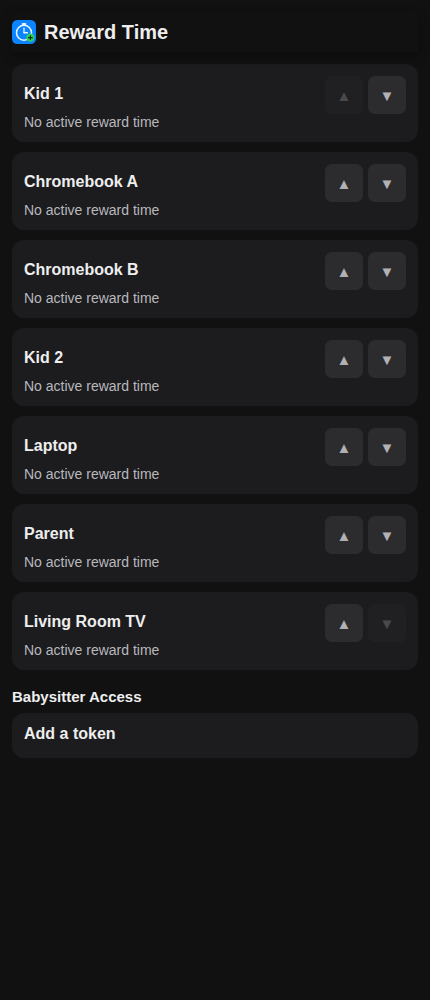
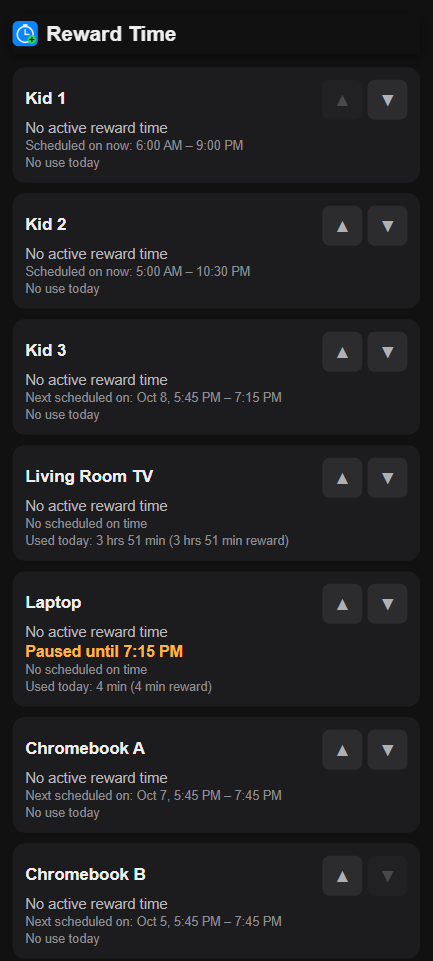
README: screenshots up top, jump-to links, docs for recent features
- Jump-to links under the intro, and a screenshot gallery right after
  it (previously ~200 lines down)
- Six new screenshots taken in a phone-sized headless browser with all
  names, emails and links replaced by placeholders: card list, expanded
  cards with pause/Resume/Revoke, schedule editor, time editor with
  Apply to, babysitter and admin access, activity
- "What you get" and "Using it" rewritten for reward time, pausing,
  schedule editing, babysitter scope, admin links and alerts, activity
- New "Updating an install" section (deploy.sh); install step for email
  alerts; architecture, troubleshooting, uninstall and security notes
  updated for pauses, schedules, the monitor and per-person links

Claude-Session: https://claude.ai/code/session_01UtyANf5UakSVDevyFZaxd4

diff --git a/README.md b/README.md
@@ -10,15 +10,45 @@ in the future.
 
 # Safe Access Reward Time
 
-A small, self-hosted web app for adding "reward time" to a kid's device on a
-Synology router running **Safe Access** (SRM's parental-control package) —
-without the friction of the official DS Router app. Built for phones: big
-buttons, a quick +5/+15/+30/+60 minute grid per profile, a custom date/time
-picker, and time-limited "babysitter" access links you can text to someone
-else so they can manage screen time themselves for a few hours or a few days.
+A small, self-hosted web app for managing kids' screen time on a Synology router running
+**Safe Access** (SRM's parental-control package) - without the friction of the official DS Router
+app. Built for phones: one card per kid or device with quick **+5/+15/+30/+60 minute** reward time,
+**pause internet** buttons, a **weekly schedule editor**, today's usage, and time-limited
+**babysitter links** you can text to someone else. It shows **who did what** (each parent and
+babysitter has their own link), and emails you if something breaks, plus an optional weekly
+summary.
 
-It runs entirely on the router itself. No cloud service, no external
-dependencies beyond what SRM already ships with.
+It runs entirely on the router itself. No cloud service, no external dependencies beyond what SRM
+already ships with.
+
+**Jump to:** [Screenshots](#screenshots) · [What you get](#what-you-get) ·
+[Prerequisites](#prerequisites) · [Router setup](#setting-up-your-router-first) ·
+[Installing](#installing) · [Updating](#updating-an-install) · [Using it](#using-it) ·
+[Architecture](#architecture) · [Troubleshooting](#troubleshooting) ·
+[Uninstalling](#uninstalling) · [Security notes](#security-notes) · [Tests](#running-the-tests)
+
+## Screenshots
+
+<table>
+<tr>
+<td align="center" width="50%"><img src="docs/screenshots/01-main-list.png" width="260" alt="Main list"><br>
+<sub>One card per kid or device: reward time, today's schedule window and usage</sub></td>
+<td align="center" width="50%"><img src="docs/screenshots/02-expanded-cards.png" width="260" alt="Expanded cards"><br>
+<sub>Quick reward buttons, pause (tap again to extend), Resume and Revoke</sub></td>
+</tr>
+<tr>
+<td align="center"><img src="docs/screenshots/03-schedule-editor.png" width="260" alt="Schedule editor"><br>
+<sub>Weekly schedule editor: the times internet is allowed</sub></td>
+<td align="center"><img src="docs/screenshots/04-time-editor.png" width="260" alt="Time editor"><br>
+<sub>Editing a time, and applying it to other days</sub></td>
+</tr>
+<tr>
+<td align="center"><img src="docs/screenshots/05-babysitter-and-admin.png" width="260" alt="Babysitter and admin access"><br>
+<sub>Babysitter links (optionally for some devices only) and per-person admin links</sub></td>
+<td align="center"><img src="docs/screenshots/06-activity.png" width="260" alt="Activity"><br>
+<sub>Who did what, with weekly and monthly totals</sub></td>
+</tr>
+</table>
 
 ## Why this exists, and why it's built the way it is
 
@@ -33,18 +63,25 @@ this app avoids it.
 
 ## What you get
 
-- A mobile-first page per restricted profile/device with quick-add buttons,
-  a revoke button, and a full custom date/time picker (with your own
-  built-in calendar and hour/minute/AM-PM columns - no fiddly native input).
-- Drag-free reordering (tap arrows) and collapsible cards, remembered
-  per-browser.
-- **Babysitter/guest access**: generate a separate link, good for anywhere
-  from a few hours up to a year, that lets whoever you send it to grant or
-  revoke reward time themselves - without your admin token, and without
-  them being able to create more links of their own. Revoke it early anytime.
-- Runs as a resilient background service: a watchdog checks real health
-  (not just "is the process alive") every minute and restarts it if needed,
-  and it survives router reboots.
+- **A card per restricted profile or device** showing active reward time, today's schedule window
+  ("Scheduled on now: 6:00 AM - 9:00 PM", or the next one) and today's usage, including how much was
+  reward time. Cards collapse and reorder with tap arrows, remembered per browser.
+- **Reward time:** +5m/+15m/+30m/+60m buttons that stack, and **Custom** for an exact date and time.
+- **Pause internet:** **+30m** pauses (tap again to extend), **Until...** pauses to a set time.
+  **Resume** ends a pause, and **Revoke** puts the profile back on its normal schedule (removes
+  reward time and any pause).
+- **Schedule editing:** a weekly editor of allowed times, saved to Safe Access live (it shows in the
+  DS Router app too). Copy a time to other days, and undo any change from the activity log.
+- **Per-person links:** each parent gets their own admin link (create or revoke more from the
+  page), and **babysitter links** last anywhere from a few hours to a year, optionally limited to
+  some devices. Babysitters can grant, revoke and pause, but can't create links or see the admin
+  sections.
+- **Activity log:** who did what and when, with per-person weekly and monthly totals.
+- **Email alerts and a weekly summary:** a health monitor emails each admin who set an alert address
+  when something breaks (and when it recovers) or an action fails, and optionally a Sunday summary
+  of the week's usage.
+- **Runs unattended:** watchdogs check real health every minute and restart things, and it survives
+  router reboots.
 
 ## Prerequisites
 
@@ -177,6 +214,12 @@ brand/model, so check that router's own documentation.
 5. Open the URL the installer printed, bookmark it or add it to your
    phone's home screen.
 
+6. Optional, for email alerts and the weekly summary: create a Gmail *app password*
+   (Google account -> Security -> 2-Step Verification -> App passwords) and run
+   `./set-alert-email.sh` from the app directory. It stores the sender and sends a test. Then
+   set an alert email on your admin link (Admin Access on the page) and tick
+   "Weekly usage email" if you want the Sunday summary.
+
 Since it's a self-signed certificate by default, your browser will warn you
 the first time. You can just tap through it, or - to make the warning go
 away permanently - AirDrop/email yourself `cert/fullchain.pem`, install it
@@ -210,56 +253,65 @@ expects (a leaf-only `server.crt`/`server.key` pair at the standard SRM
 path, chain completed via the local admin HTTPS port) - if it fails, you're
 no worse off than the self-signed default.
 
+## Updating an install
+
+From a checkout of this repo on your own computer, with SSH access to the router as the app user:
+
+```
+./deploy.sh <ssh-host> [/volume1/reward-time]
+```
+
+It copies the app's own files, compile-checks them with the router's Python, backs up the current
+ones into `backups/<timestamp>/` (keeping the newest 5), restarts the server and checks it answers.
+If it doesn't, it prints how to roll back. Changes to the root-owned parts (`root/`) need root, so
+copy those into `<your-install-dir>-root` yourself as in the installer's steps.
+
 ## Using it
 
-Open the app link. Each restricted Safe Access profile (a kid's account, or
-a specific device) gets its own collapsed card, showing whether it
-currently has active reward time:
+Open your link. Each restricted Safe Access profile (a kid's account, or a specific device) has a
+card; tap its header to expand it (see the [screenshots](#screenshots)).
 
-![Main list, collapsed](docs/screenshots/01-main-list.png)
+### Reward time
 
-Tap a card's header to expand it:
+The **+5m ... +60m** buttons stack: tap **+15m** then **+30m** and it ends up 45 minutes, with no
+need to wait for the first to finish. **Custom** opens a date/time picker sized to fit the screen;
+it closes as soon as you tap **Set** and applies in the background, so you can move on to the next
+device.
 
-![Expanded card showing the quick-add buttons](docs/screenshots/02-expanded-card.png)
+### Pausing internet
 
-This reveals four quick-add buttons - tap one for an instant grant. They
-stack: tap **+15m** then **+30m** right after and the device ends up with
-45 minutes total, with no need to wait for the first tap to finish before
-making the next one. There's also **Custom** for an exact date/time, and
-**Revoke** to end active reward time immediately. Use the small up/down
-arrows to reorder cards, and tap a header again to collapse it - both are
-remembered per-browser, not shared across devices.
+**+30m** pauses the profile for 30 minutes; tapping it again adds another 30 to the end.
+**Until...** pauses to a chosen time. While paused, the card shows "Paused until ..." and the last
+row offers **Resume** (end the pause, keep any reward time) and **Revoke** (end both and go back to
+the normal schedule). Safe Access itself only pauses indefinitely, so timed pauses are ended by the
+app's background daemon.
 
-### Custom date & time
+### Editing schedules
 
-Tapping **Custom** opens a picker sized to fit your screen without
-scrolling: pick a date from the calendar (it opens on today), then an
-hour, minute, and AM/PM, and tap **Set**.
+**Edit schedule** (admins only) shows each day's allowed times. Tap a time to change its start or
+end in the same picker; **Apply to...** adds it to other days too (merging with times already
+there). **+ Add** adds a time, and **Copy to all days** makes every day match one. Nothing changes
+until **Save**. A schedule with no allowed time at all asks for confirmation. Every change is
+recorded with the previous schedule, and its entry in Activity has an **Undo** button.
 
-![Custom date and time picker](docs/screenshots/03-custom-picker.png)
+### Babysitter access
 
-The picker closes immediately after you tap **Set** - it applies in the
-background, so you can move straight on to another device rather than
-waiting for it to finish.
+Name who a link is for and pick how long it lasts (a few hours up to a year). By default it covers
+all devices; untick **All devices** to pick some. Creating it copies the link to your clipboard. A
+badge on the heading shows how many are active; open a row to see its link again or revoke it.
 
-### Babysitter / guest access
+### Admin access and alerts
 
-At the bottom, the "Add a token" card lets you name who a temporary access
-link is for and choose how long it should last - a preset number of hours
-or days, or an exact date/time up to a year out:
+Every admin link has a name, which is what Activity shows. Open a row to copy its link, set an
+alert email, tick **Weekly usage email (Sundays)**, or revoke it. You can't revoke your own link,
+or the last one. A warning banner appears at the top of the page if the health monitor sees a
+problem.
 
-![Add a token card](docs/screenshots/04-add-token.png)
+### Activity
 
-Creating one copies the link straight to your clipboard - ready to text or
-message to whoever needs it - and shows it in the list above. It works
-like your own link, except it can only grant or revoke reward time; it
-can't create more links or see this list. Tap an entry in the list to
-reveal its full link again later (handy if you need to resend it) - the
-text field is selectable so you can copy it manually:
-
-![An expanded token entry showing its selectable link](docs/screenshots/05-token-expanded.png)
-
-Revoke a token early right from its row, or just let it expire on its own.
+A per-person table of the last 7 and 30 days (actions and minutes granted, revokes, pauses), and the
+recent actions, filterable by person. Failed actions show in red. The Babysitter Access, Admin
+Access and Activity sections fold, remembered per browser.
 
 ## Architecture
 
@@ -289,10 +341,23 @@ split exists specifically because a direct database write does *not*
 reliably trigger live enforcement - confirmed by testing both paths against
 a real device.
 
-Everything else (watchdogs, boot scripts, log rotation, TLS handshake
-timeouts to survive internet port-scanning) exists because this app is
-reachable from the open internet by design, and needs to keep running
-unattended.
+Pausing (`SYNO.SafeAccess.AccessControl.ConfigGroup`) and schedule changes
+(`SYNO.SafeAccess.AccessControl.Profile.Schedule.Blocktime`) go the same way.
+Safe Access only pauses indefinitely, so `apply_daemon.py` also keeps timed
+pauses in `pauses.json` and ends them when due.
+
+Around that:
+
+- `tokens.db` (app directory) holds the admin and babysitter links and the
+  activity log.
+- `monitor.py` runs every minute as the app user and checks the web app, the
+  daemons' heartbeats and the certificate sync. It emails problems,
+  recoveries and failed actions, and sends the weekly summary. Its state also
+  drives the page's warning banner.
+- Everything else (watchdogs, boot scripts, log rotation, TLS handshake
+  timeouts to survive internet port-scanning) exists because this app is
+  reachable from the open internet by design, and needs to keep running
+  unattended.
 
 ## Troubleshooting
 
@@ -313,6 +378,16 @@ unattended.
 - **A request seems to hang for exactly 5 seconds then fails**: means
   `apply_daemon.py` isn't picking up requests - check it's running and
   check its log.
+- **A warning banner at the top of the page**: it lists what the health
+  monitor found; `monitor.log` in the app directory has the history.
+  "Health monitor last ran N minutes ago" means its cron entry
+  (`monitor_launcher.sh`) isn't running.
+- **The server keeps restarting**: `server.crash.log` has startup errors and
+  tracebacks, plus a line for every restart. `server.log` is the request log.
+- **No alert emails**: run `python monitor.py --test-email` in the app
+  directory. Check the admin link has an alert email set, and that
+  `set-alert-email.sh` was given a Gmail *app password*, not the account
+  password.
 
 ## Uninstalling
 
@@ -325,16 +400,17 @@ rm /usr/local/etc/rc.d/reward-time.sh /usr/local/etc/rc.d/reward-apply.sh
 ```
 
 Then edit `/etc/crontab` to remove the lines this app added
-(`app_watchdog.sh`, `apply_watchdog.sh`, and `cert-sync.sh` if you enabled
-it), restart crond (`/usr/syno/sbin/synoservicectl --restart crond`), and
+(`app_watchdog.sh`, `apply_watchdog.sh`, `monitor_launcher.sh`, and
+`cert-sync.sh` if you enabled it), restart crond (`/usr/syno/sbin/synoservicectl --restart crond`), and
 delete both the app's install directory and its `-root` companion.
 
 ## Security notes
 
 - The app is gated by a long random bearer token in the URL - anyone with
-  the link has full access (or, for a babysitter link, access limited to
-  granting/revoking reward time until it expires). Don't post the link
-  anywhere public.
+  an admin link has full access, and a babysitter link can only grant,
+  revoke and pause (on its devices) until it expires. Each person has their
+  own link, so one can be revoked without affecting the others, and the
+  activity log shows which link did what. Don't post links anywhere public.
 - It's directly internet-facing by design (that's the point - so you can
   use it away from home). It will get hit by routine internet-wide
   vulnerability scanners; the server handles this deliberately (threaded,
@@ -359,8 +435,9 @@ delete both the app's install directory and its `-root` companion.
 
 ## Running the tests
 
-The schedule logic has unit tests that run on both the router's Python 2.7
-and Python 3:
+The schedule logic (windows, and converting between allowed times and Safe
+Access's blocked periods) has unit tests that run on both the router's
+Python 2.7 and Python 3:
 
 ```
 python3 -m unittest discover -s tests -t .     # on your own computer
